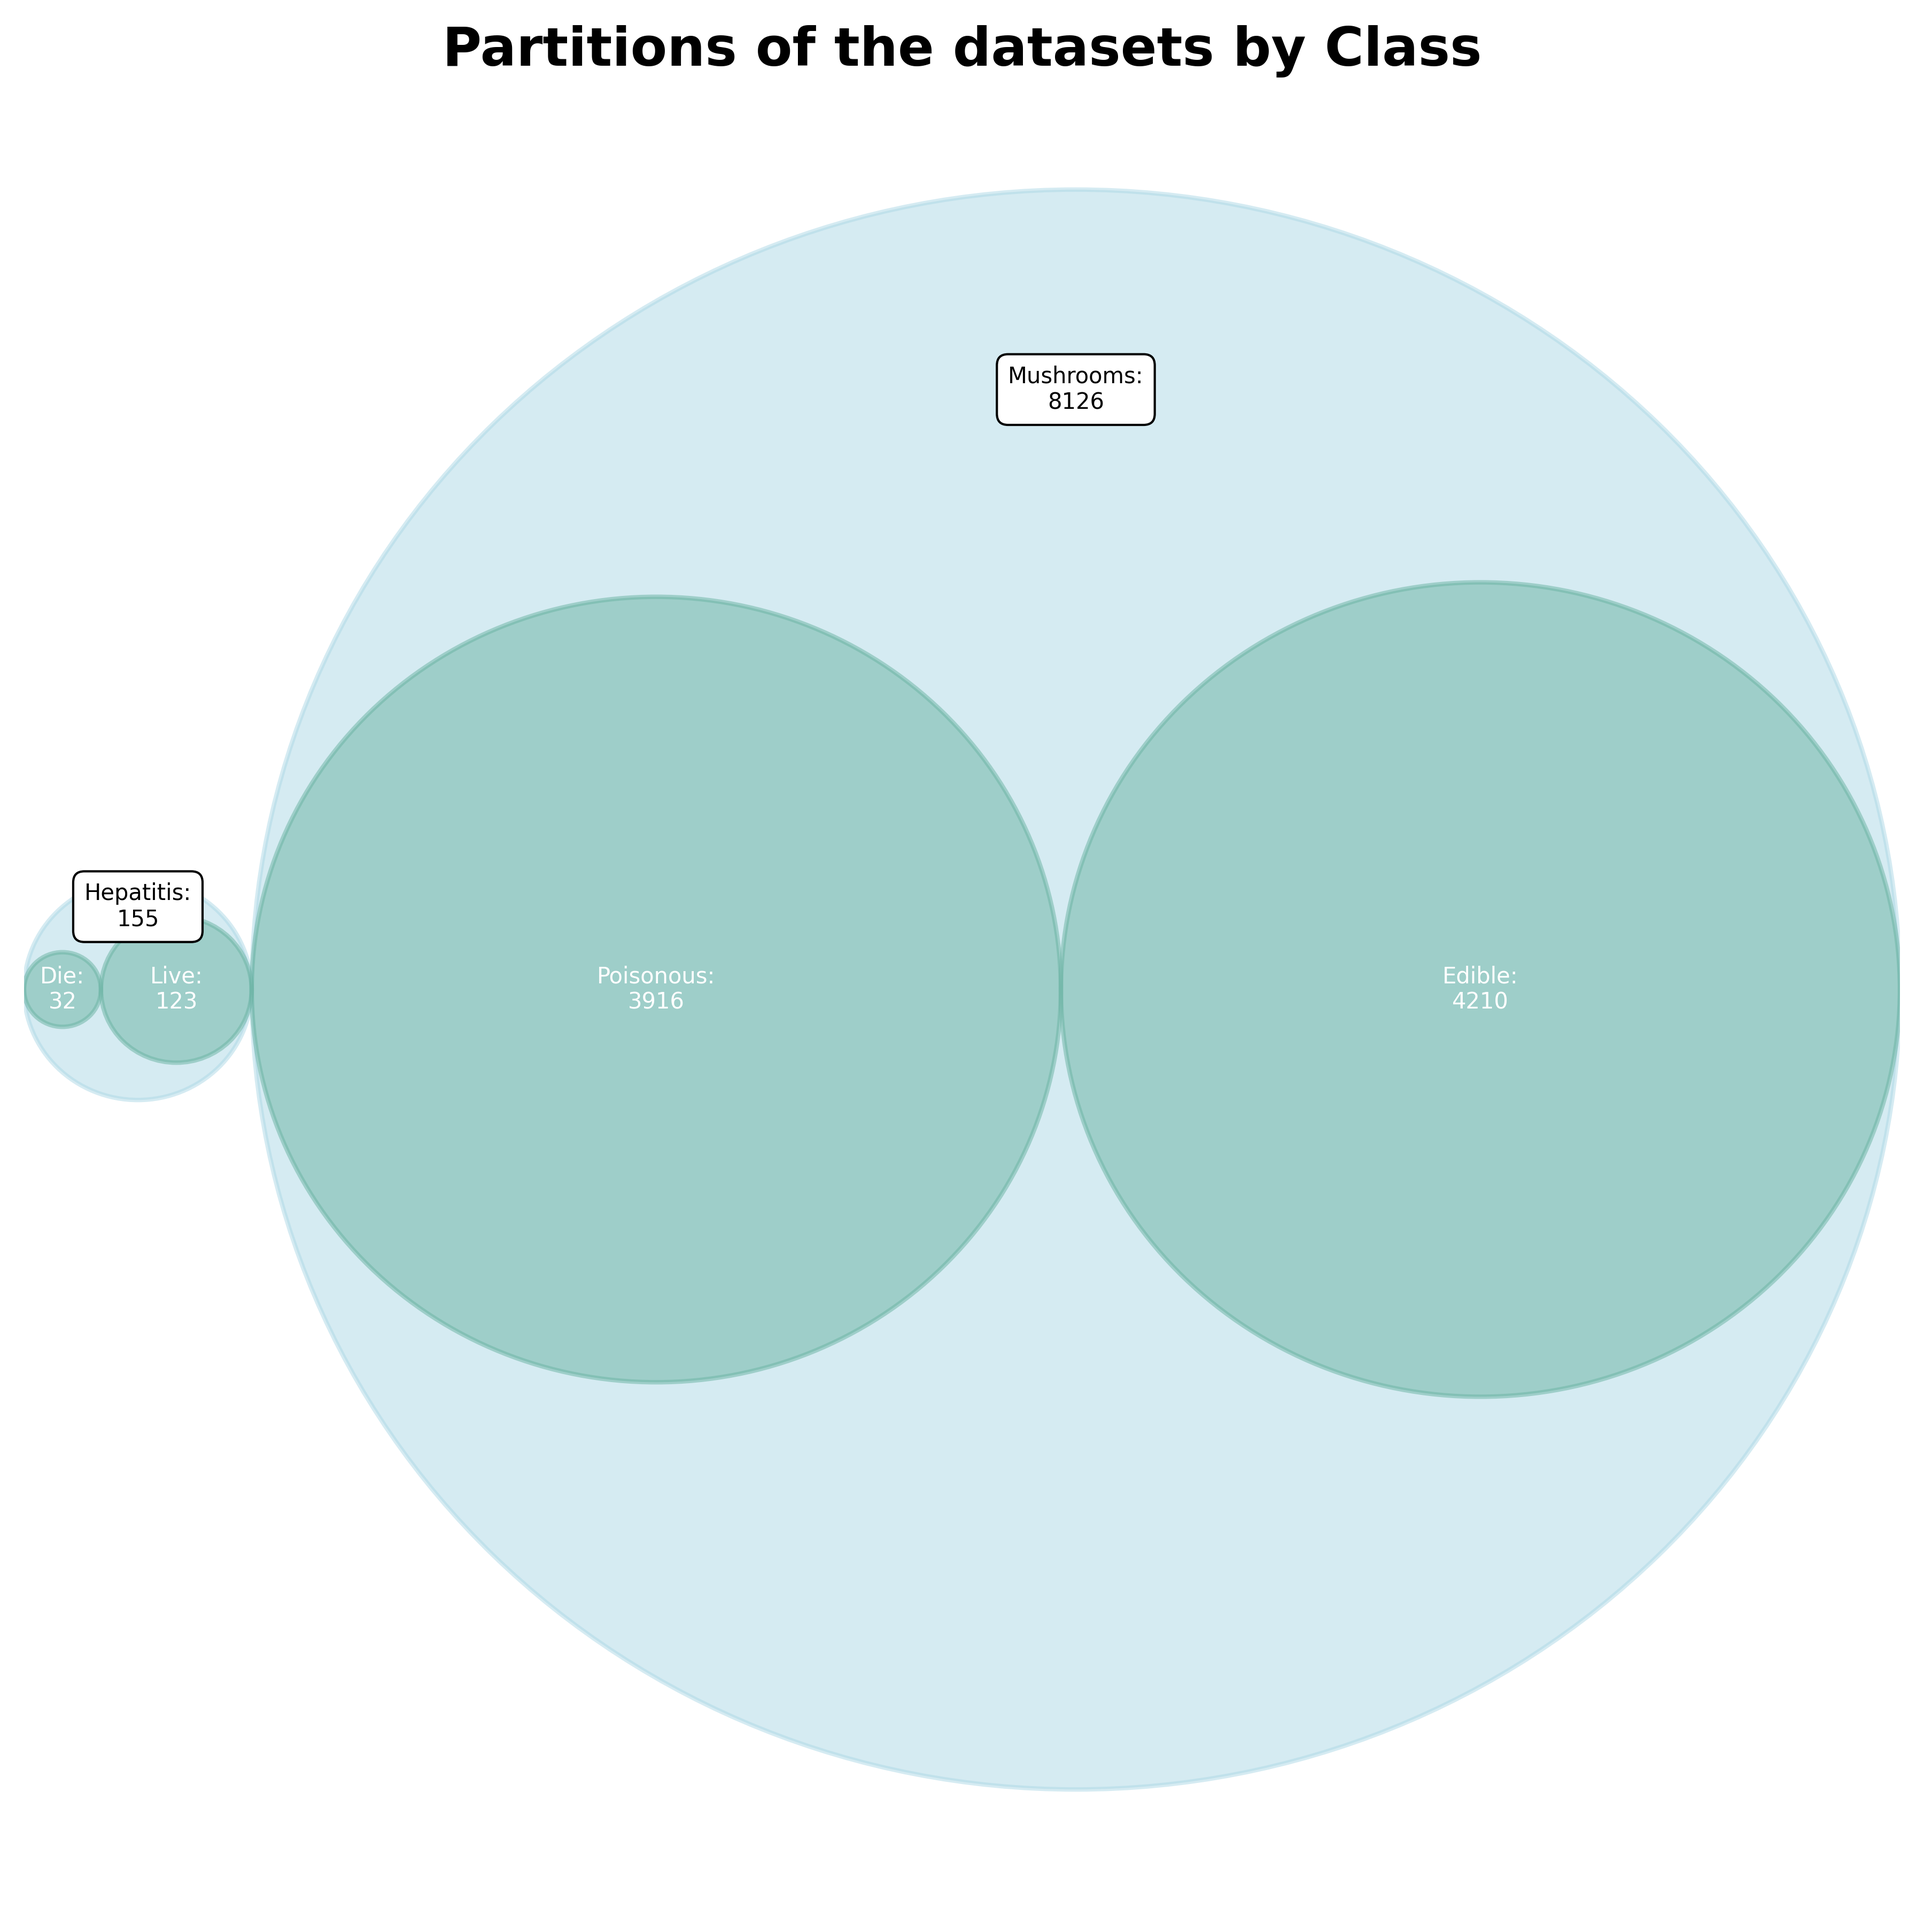
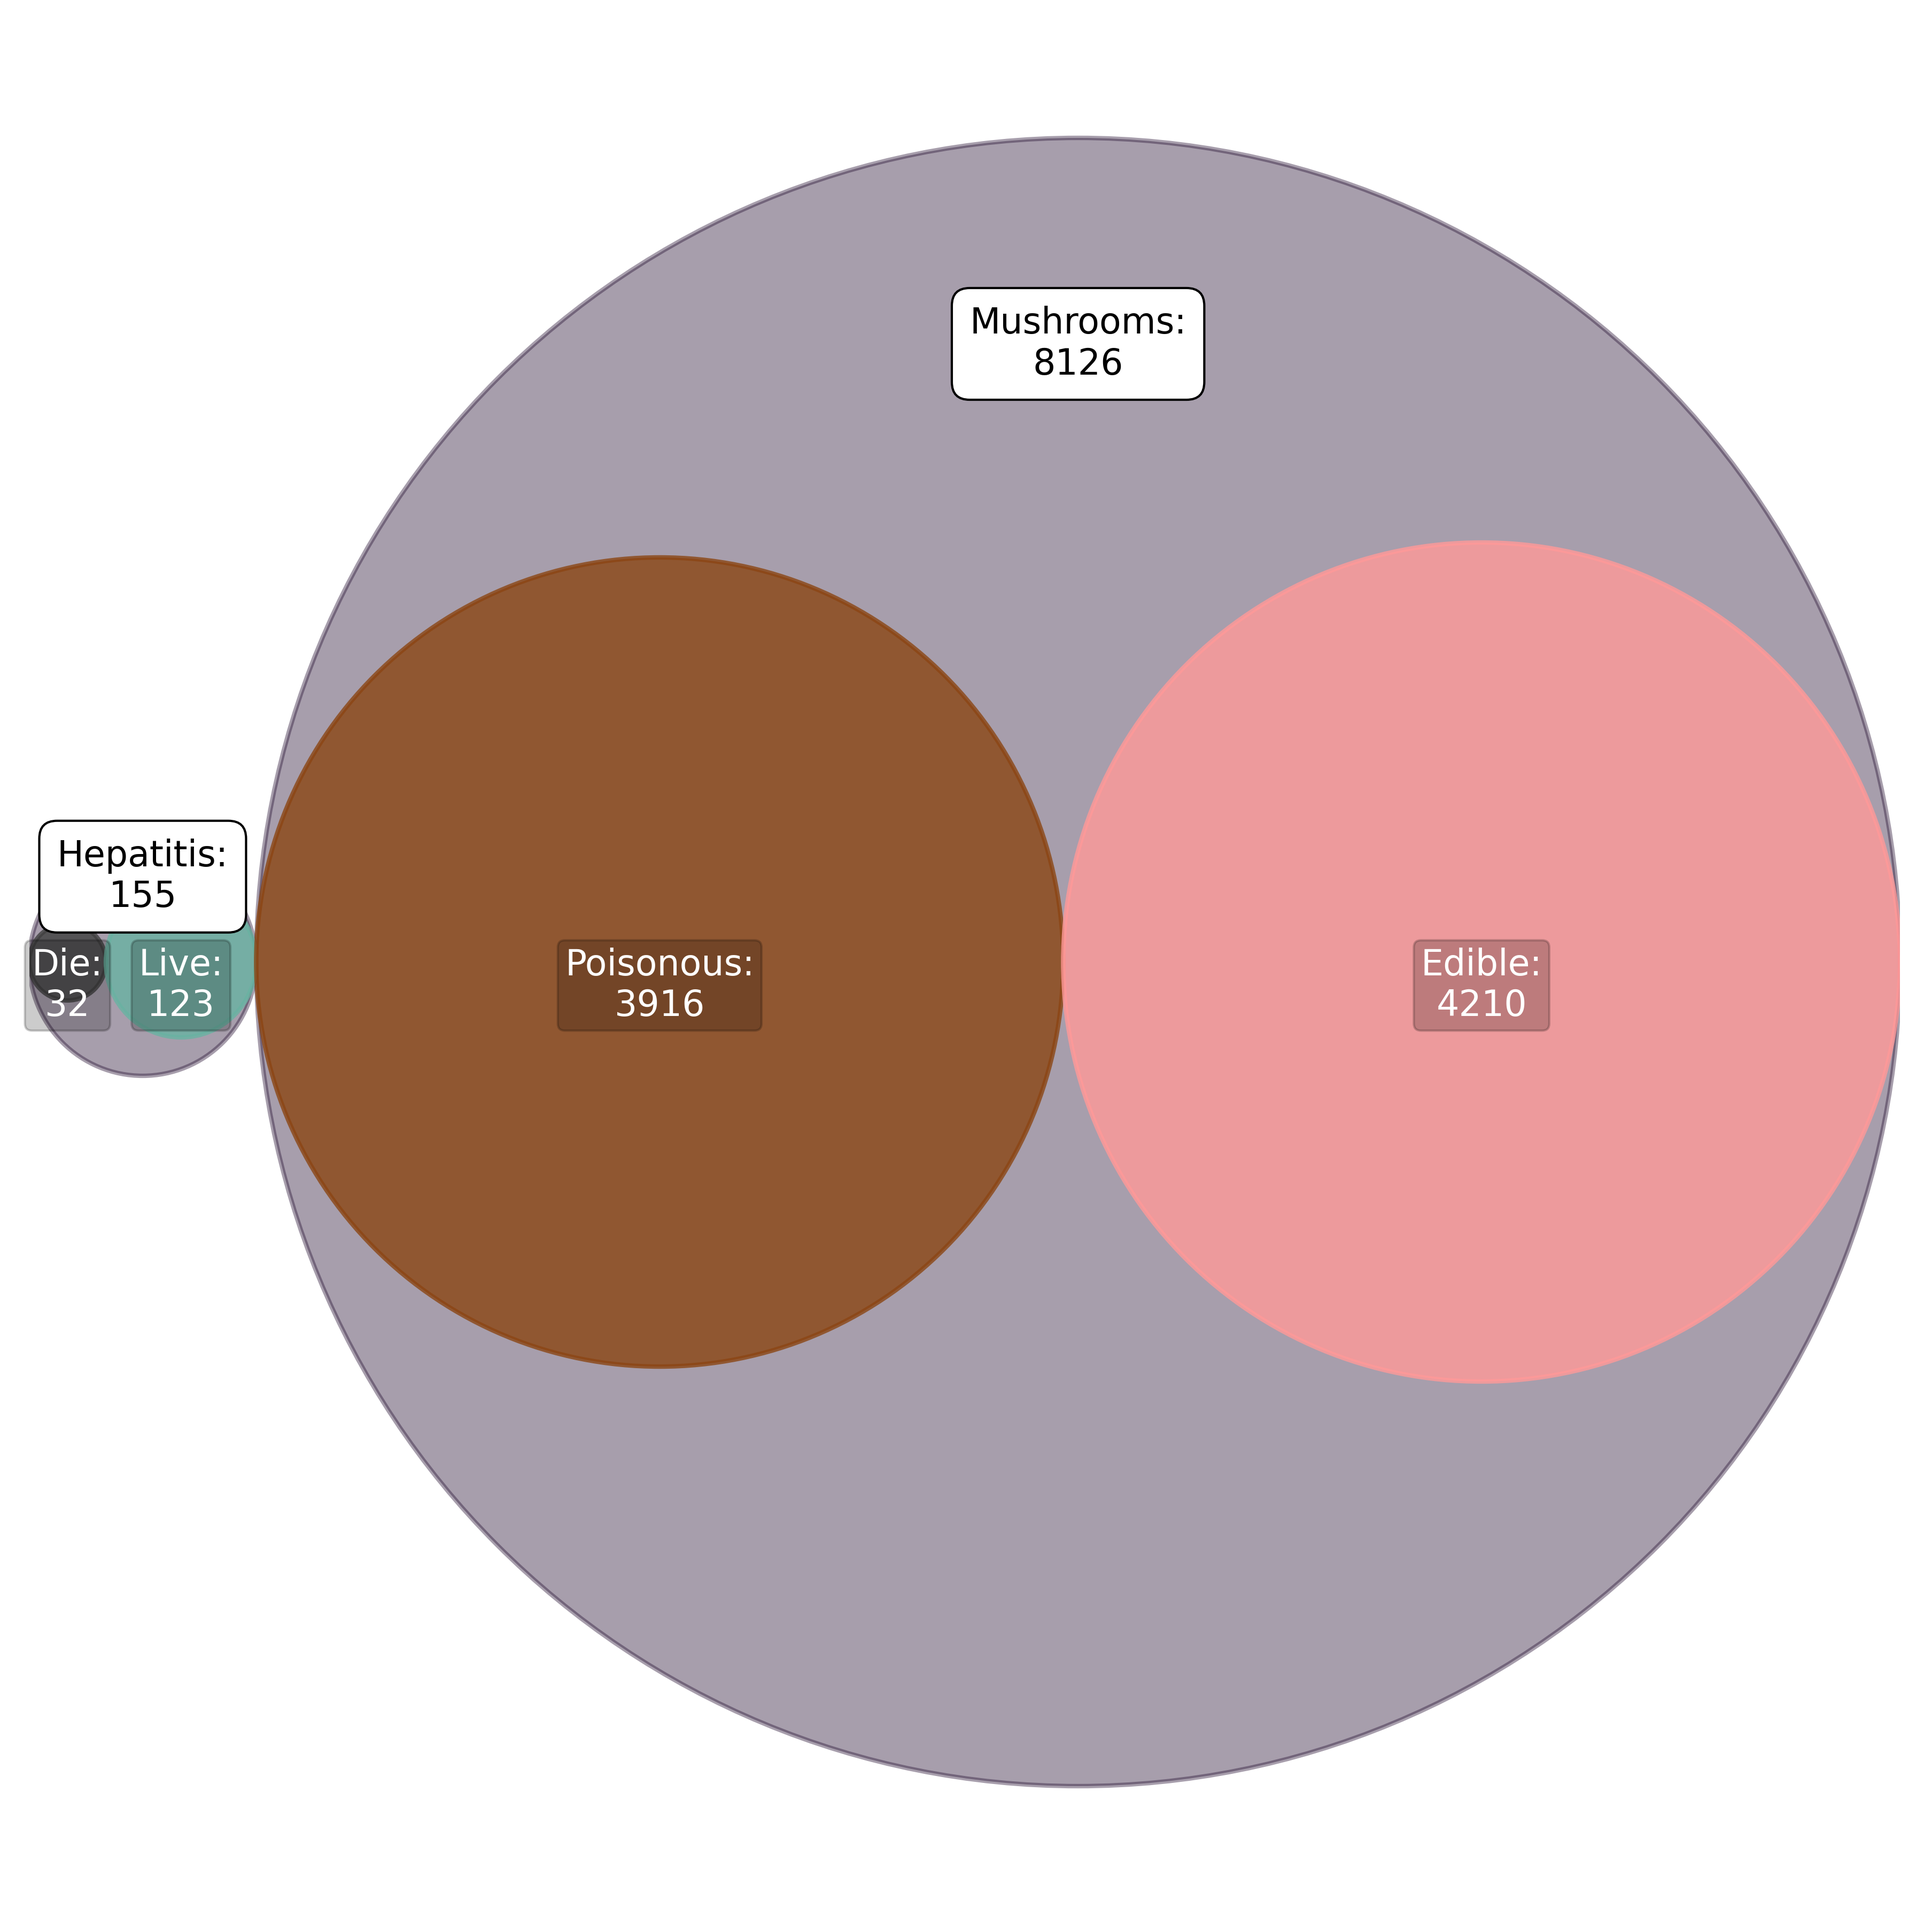
update dataset analysis

diff --git a/work2/tools/analysis/run_dataset_analysis.py b/work2/tools/analysis/run_dataset_analysis.py
@@ -7,8 +7,23 @@ import circlify
 from pywaffle import Waffle
 import os
 from tools.preprocess import load_datasets
+from pypalettes import load_cmap
 
+alexandrite = load_cmap("Alexandrite")
+alexandrite_colors = alexandrite.colors
 plt.style.use("default")
+
+live_color = "#69b3a2"
+die_color = "#404040"
+poisonous_color = "#8B4513"
+edible_color = "#FF9999"
+
+color_map = {
+    "Live": live_color,
+    "Die": die_color,
+    "Poisonous": poisonous_color,
+    "Edible": edible_color,
+}
 
 
 def load_data():
@@ -71,7 +86,6 @@ def plot_dataset_partitions(full_mushroom_df, full_hepatitis_df, REPORTS_DIR):
     )
 
     fig, ax = plt.subplots(figsize=(12, 12))
-    ax.set_title("Partitions of the datasets by Class", fontsize=24, fontweight="bold")
     ax.axis("off")
 
     lim = max(
@@ -88,15 +102,26 @@ def plot_dataset_partitions(full_mushroom_df, full_hepatitis_df, REPORTS_DIR):
         if circle.level != 2:
             continue
         x, y, r = circle
-        ax.add_patch(plt.Circle((x, y), r, alpha=0.5, linewidth=2, color="lightblue"))
+        ax.add_patch(plt.Circle((x, y), r, alpha=0.4, linewidth=2, color=alexandrite_colors[0]))
 
     for circle in circles:
         if circle.level != 3:
             continue
         x, y, r = circle
         label = f"{circle.ex['id']}:\n{circle.ex['datum']}"
-        ax.add_patch(plt.Circle((x, y), r, alpha=0.5, linewidth=2, color="#69b3a2"))
-        plt.annotate(label, (x, y), ha="center", va="center", color="white")
+        color = color_map[circle.ex["id"]]
+        ax.add_patch(
+            plt.Circle((x, y), r, alpha=0.8, linewidth=2, color=color, edgecolor="black")
+        )
+        plt.annotate(
+            label,
+            (x, y - 0.025),
+            fontsize=16,
+            ha="center",
+            va="center",
+            color="white",
+            bbox=dict(facecolor="black", alpha=0.2, edgecolor="black", boxstyle="round", pad=0.2),
+        )
 
     for circle in circles:
         if circle.level != 2:
@@ -106,6 +131,7 @@ def plot_dataset_partitions(full_mushroom_df, full_hepatitis_df, REPORTS_DIR):
         plt.annotate(
             label,
             (x, y + 3 * r / 4),
+            fontsize=16,
             va="center",
             ha="center",
             bbox=dict(facecolor="white", edgecolor="black", boxstyle="round", pad=0.5),
@@ -128,17 +154,17 @@ def plot_hepatitis_distribution(full_hepatitis_df, REPORTS_DIR):
         rows=5,
         columns=31,
         values=data,
-        colors=("#69b3a2", "#404040"),
+        colors=(live_color, die_color),
         title={
             "label": "Class distribution in the hepatitis dataset",
-            "fontdict": {"fontsize": 16, "fontweight": "bold"},
+            "fontdict": {"fontsize": 20, "fontweight": "bold"},
         },
         labels=repartition,
         legend={
             "loc": "lower left",
-            "bbox_to_anchor": (0, -0.25),
+            "bbox_to_anchor": (0, -0.3),
             "ncol": len(data),
-            "fontsize": 12,
+            "fontsize": 16,
         },
     )
     plt.tight_layout()
@@ -158,17 +184,17 @@ def plot_mushroom_distribution(full_mushroom_df, REPORTS_DIR):
         rows=5,
         columns=34,
         values=data,
-        colors=("#8B4513", "#FF9999"),
+        colors=(poisonous_color, edible_color),
         title={
             "label": "Class distribution in the mushroom dataset",
-            "fontdict": {"fontsize": 16, "fontweight": "bold"},
+            "fontdict": {"fontsize": 20, "fontweight": "bold"},
         },
         labels=repartition,
         legend={
             "loc": "lower left",
-            "bbox_to_anchor": (0, -0.25),
+            "bbox_to_anchor": (0, -0.3),
             "ncol": len(data),
-            "fontsize": 12,
+            "fontsize": 16,
         },
     )
     plt.tight_layout()

diff --git a/work2/reports/03-methods/03.4-methods-statistical-analysis.tex b/work2/reports/03-methods/03.4-methods-statistical-analysis.tex
@@ -38,9 +38,10 @@ Furthermore, the performance metrics distribution across folds in Figure~\ref{fi
 
 These plots verify that the data does not meet the assumptions of ANOVA:
 
-- Non-normal distribution: Several models show asymmetric distributions, where the median line is not in the middle of the box.
+\paragraph{Non-normal distribution:} Several models show asymmetric distributions, where the median line is not in the middle of the box.
 Also present are outliers in the data, which are represented as dots outside of the whisker lines.
-- Unequal variances: Box sizes vary significantly across models, and some models have much larger spreads than others.
+
+\paragraph{Unequal variances:} Box sizes vary significantly across models, and some models have much larger spreads than others.
 Additionally, the whisker lenghts vary considerably between models.
 
 These claims hold true when analysing performance metrics distribution across folds using SVM:
